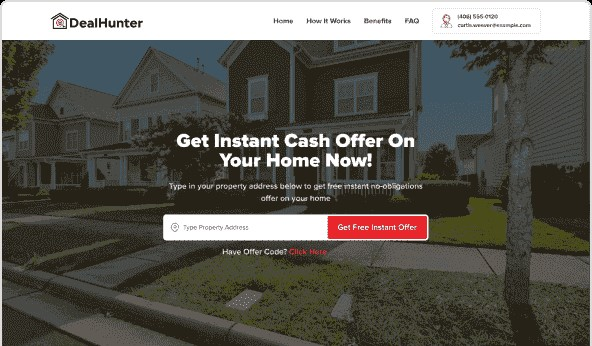
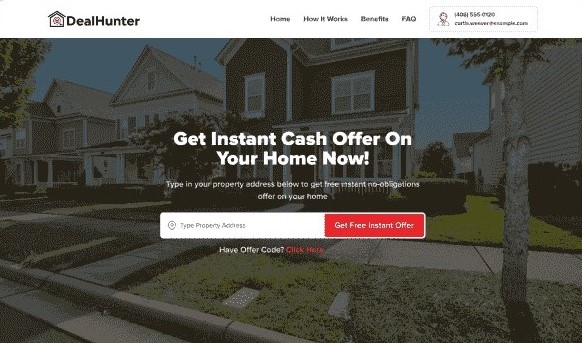
update

diff --git a/style.css b/style.css
@@ -73,7 +73,7 @@ a.nav-link {
 .banner_body img {
     filter: drop-shadow(0px 20px 40px rgba(0, 0, 0, 0.16));
     border-radius: 6.79458px;
-    border: 1px solid #E0E0E0;
+    border: 2px solid #E0E0E0;
 }
 
 .banner_body h2 {
@@ -142,10 +142,10 @@ a.nav-link {
     overflow-x: scroll;
     gap: 24px;
     width: 100%;
-    /* max-width: 797px; */
-    margin: auto;
+    max-width: 1080px;
+    margin: 0 auto;
     flex-wrap: nowrap;
-    justify-content: center;
+    /* justify-content: center; */
     margin-bottom: 102px;
 }
 
